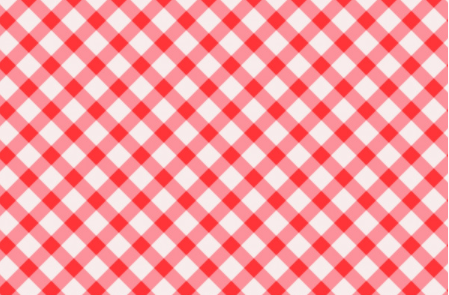
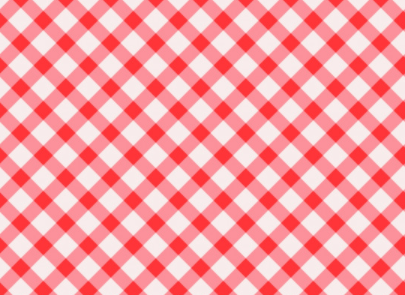
Cambios de Lau. Carousel

diff --git a/Styles/Stylesheet.css b/Styles/Stylesheet.css
@@ -2,7 +2,8 @@ body
 {
     font-family: lucida grande ,tahoma,verdana,arial,sans-serif;
     background-color: #ffffff;
-    background-image: url(../Images/pizza-background.jpg);
+    background-image: url(../Images/fondo_beige_pizzeria.png);
+    
 
 }
 
@@ -80,9 +81,10 @@ h2 {
 input[type="submit" i] 
 {
     
-    background-color: rgb(236, 13, 13);
+    background-color: whitesmoke(236, 13, 13);
     color: -internal-light-dark(black, white);
-    padding: 2px 12px
+    padding: 4px 20px
+
     
 }
 
@@ -119,7 +121,7 @@ input[type="submit" i]
 
 #nav a:hover
 {
-    color: rgb(236, 13, 13);
+    color: whitesmoke(236, 13, 13);
 }
 
 .imgLeft
@@ -143,4 +145,82 @@ input[type="submit" i]
 #pantallaMenu{
     width: 1041px;
     height: 372px;
+}
+.Carousel
+
+    body{
+        font-family:sans-serif ;
+        display: flex ;
+        justify-content: center;
+        align-items: center ;
+    }
+.Carousel{
+    width: 120px;
+    height: 170px;
+   
+   
+}
+
+.carousel-item{
+    width: 120px;
+    height: 170px;
+    margin: 0px 0 10px 10px;
+    padding: 10px;
+    justify-content: center;
+}
+
+body {
+    background-color: #89FAD0;
+    font-family: 'Lobster';
+}
+
+.carousel {
+    position: absolute;
+    height: 200px;
+    width: 810px;
+    margin: auto;
+    left: 0;
+    right: 0;
+    top: 0;
+    bottom: 0;
+}
+
+.arrow {
+    position: absolute;
+    width: 30px;
+    height: 30px;
+    background-color: white;
+    text-align: center;
+    font-size: 25px;
+    border-radius: 50%;
+    cursor: pointer;
+    font-size: 20px;
+    color: #228291;
+    line-height: 30px;
+    margin-top: 85px;
+    z-index: 1000;
+}
+
+
+.Image{
+    display: flex;
+    transform: translater(0);
+}
+
+.Controls{
+    height: 50px ;
+    display: flex;
+    justify-content: space-between;
+}
+
+.button{
+    bottom: auto;
+    background-color: red;
+    flex-basis: 33em;
+    cursor: pointer;
+}
+
+table
+{
+    background-color: white;
 }

diff --git a/Insumos/insumos.php b/Insumos/insumos.php
@@ -14,7 +14,16 @@
         <meta http-equiv="Content-Type" content="text/html; charset=UTF-8">
         <title><?php echo $title; ?></title>
         <link rel="stylesheet" type="text/css" href="../Styles/Stylesheet.css" />
-    </head>
+		<link href="https://cdn.jsdelivr.net/npm/bootstrap@5.1.3/dist/css/bootstrap.min.css" rel="stylesheet" integrity="sha384-1BmE4kWBq78iYhFldvKuhfTAU6auU8tT94WrHftjDbrCEXSU1oBoqyl2QvZ6jIW3" crossorigin="anonymous">
+		 
+		<title>Insumos</title> 
+		<link href="css/bootstrap.min.css" rel="stylesheet"> 
+		<meta name="viewport" content="width=device-width, initial-scale=1">
+
+		
+	</head> 
+
+
     <body>
 		<div id="wrapper">
 			<div id="banner"></div>
@@ -26,7 +35,48 @@
                     <li><a href="insumos.php">Insumos</a></li>
                 </ul>
             </nav>
+
+			<div id="carouselExampleSlidesOnly" class="carousel slide" data-bs-ride="carousel">
+		
+			<div id="carouselExampleControls" class="carousel slide" data-bs-ride="carousel">
+			<div class="carousel-inner">
+				<div class="carousel-item active" data-bs-interval="4000">
+				<img src="../Images/Pizza 1.png" class="d-block w-10" alt="banner 1">
+				</div>
+				<div class="carousel-item"data-bs-interval="4000">
+				<img src="../Images/Pizza 2.png" class="d-block w-10" alt="banner 2">
+				</div>
+				<div class="carousel-item"data-bs-interval="4000">
+				<img src="../Images/Pizza 3.png" class="d-block w-10" alt="banner 3">
+				</div>
+				<div class="carousel-item"data-bs-interval="4000">
+				<img src="../Images/Pizza 4.png" class="d-block w-10" alt="banner 4">
+				</div>
+				<div class="carousel-item"data-bs-interval="4000">
+				<img src="../Images/Pizza 5.png" class="d-block w-10" alt="banner 5">
+				</div>
+				<div class="carousel-item"data-bs-interval="4000">
+				<img src="../Images/Pizza 6.png" class="d-block w-10" alt="banner 6">
+				</div>
+				<div class="carousel-item"data-bs-interval="4000">
+				<img src="../Images/Pizza 7.png" class="d-block w-10" alt="banner 7">
+				</div>
+			</div>
+	
+			<button class="carousel-control-prev" type="button" data-bs-target="#carouselExampleControls" data-bs-slide="prev">
+				<span class="carousel-control-prev-icon" aria-hidden="true"></span>
+				<span class="visually-hidden">Anterior</span>
+			</button>
+			<button class="carousel-control-next" type="button" data-bs-target="#carouselExampleControls" data-bs-slide="next">
+				<span class="carousel-control-next-icon" aria-hidden="true"></span>
+				<span class="visually-hidden">Siguiente</span>
+			</button>
+			</div>
+
 			<div id="content_area">
+
+		</div>	
+		
 			<h2> Consulta Insumos </h2>
 				<form action="consulta_especifica_insumo.php" method="post">
 					Por id:  <input type="text" name = "id_insumos">
@@ -35,55 +85,70 @@
 					<br>
 					<input type="submit" value = "consulta">
 				</form>
+				<br>
+				<br>
+				<br>
+			
 
-
-				<h2> Insertar Insumos </h2>
+			<div class="btn-group" role="group">
 				<form action="insertar_insumo.php" method="post">
 					<input type="submit" value = "Insertar">
 				</form>
-
-				<h2> Eliminar Insumos </h2>
 				<form action="eliminar_insumo.php" method="post">
 					<input type="submit" value = "Eliminar">
 				</form>
-
-				<h2> Actualizar Insumos </h2>
 				<form action="actualizar_insumo.php" method="post">
 					<input type="submit" value = "Actualizar">
 				</form>
 				<br>
 				<br>
-				<table border="1">
-					<tr>
-						<td></td>
-						<td>Descripción</td>
-						<td>Cantidad</td>
-						<td>Disponibilidad</td>
-					</tr>
 
-					<?php
+			</div>
+			<br>
+			<br><br>
+
+			
+			<table class="table table-responsive table-bordered table-hover">
+				<thead>
+					<tr>
+						<th>Id</th>
+						<th>Descripción</th>
+						<th>Cantidad</th>
+						<th>Disponibilidad</th>
+					</tr>
+				</thead>
+
+				<?php
 					$sql="SELECT * FROM insumos";
 					$result=mysqli_query($conexion, $sql);
 					
 					while ($mostrar=mysqli_fetch_array($result)) {
 					?>
 
+				<tbody>
 					<tr>
 						<td><?php echo $mostrar['id_insumos'] ?></td>
 						<td><?php echo $mostrar['descripcion'] ?></td>
 						<td><?php echo $mostrar['cantidad_unidades'] ?></td>
 						<td><?php echo $mostrar['disponibilidad'] ?></td>
-					</tr>
+					<tr>
 
+					</tr>
+			
 					<?php 
 					}
 					?>
+				</tbody>
 				</table>
 				<br><br>
 
-				
-			</div>
-			
 		</div>
+
+		<script src="https://cdn.jsdelivr.net/npm/@popperjs/core@2.10.2/dist/umd/popper.min.js" integrity="sha384-7+zCNj/IqJ95wo16oMtfsKbZ9ccEh31eOz1HGyDuCQ6wgnyJNSYdrPa03rtR1zdB" crossorigin="anonymous"></script>
+		<script src="https://cdn.jsdelivr.net/npm/bootstrap@5.1.3/dist/js/bootstrap.min.js" integrity="sha384-QJHtvGhmr9XOIpI6YVutG+2QOK9T+ZnN4kzFN1RtK3zEFEIsxhlmWl5/YESvpZ13" crossorigin="anonymous"></script>
+				
+		</div>
+		<br><br>
 </body>
 </html>
+

diff --git a/Insumos/consulta_especifica_insumo.php b/Insumos/consulta_especifica_insumo.php
@@ -14,12 +14,18 @@ $resultado = mysqli_query($con, $sql);
 
 
 <!DOCTYPE html>
-<html>
+<html lange="en"></html>
 
 <head>
 	<meta http-equiv="Content-Type" content="text/html; charset=UTF-8">
 	<title><?php echo $title; ?></title>
 	<link rel="stylesheet" type="text/css" href="../Styles/Stylesheet.css" />
+
+	<meta charset="UTF-8">
+	<meta http-equiv="X-UA-Compatible" content="IE=edge">
+	<meta name="viewport" content= "width=device-width, initial-scale=1.0">
+	<title>Carousel</title>
+
 </head>
 
 <body>
@@ -33,6 +39,7 @@ $resultado = mysqli_query($con, $sql);
 				<li><a href="insumos.php">Insumos</a></li>
 			</ul>
 		</nav>
+		
 		<div id="content_area">
 			<table border="1">
 				<tr>
@@ -63,7 +70,9 @@ $resultado = mysqli_query($con, $sql);
 			</form>
 
 		</div>
+		
 	</div>
+
 </body>
 
 </html>
